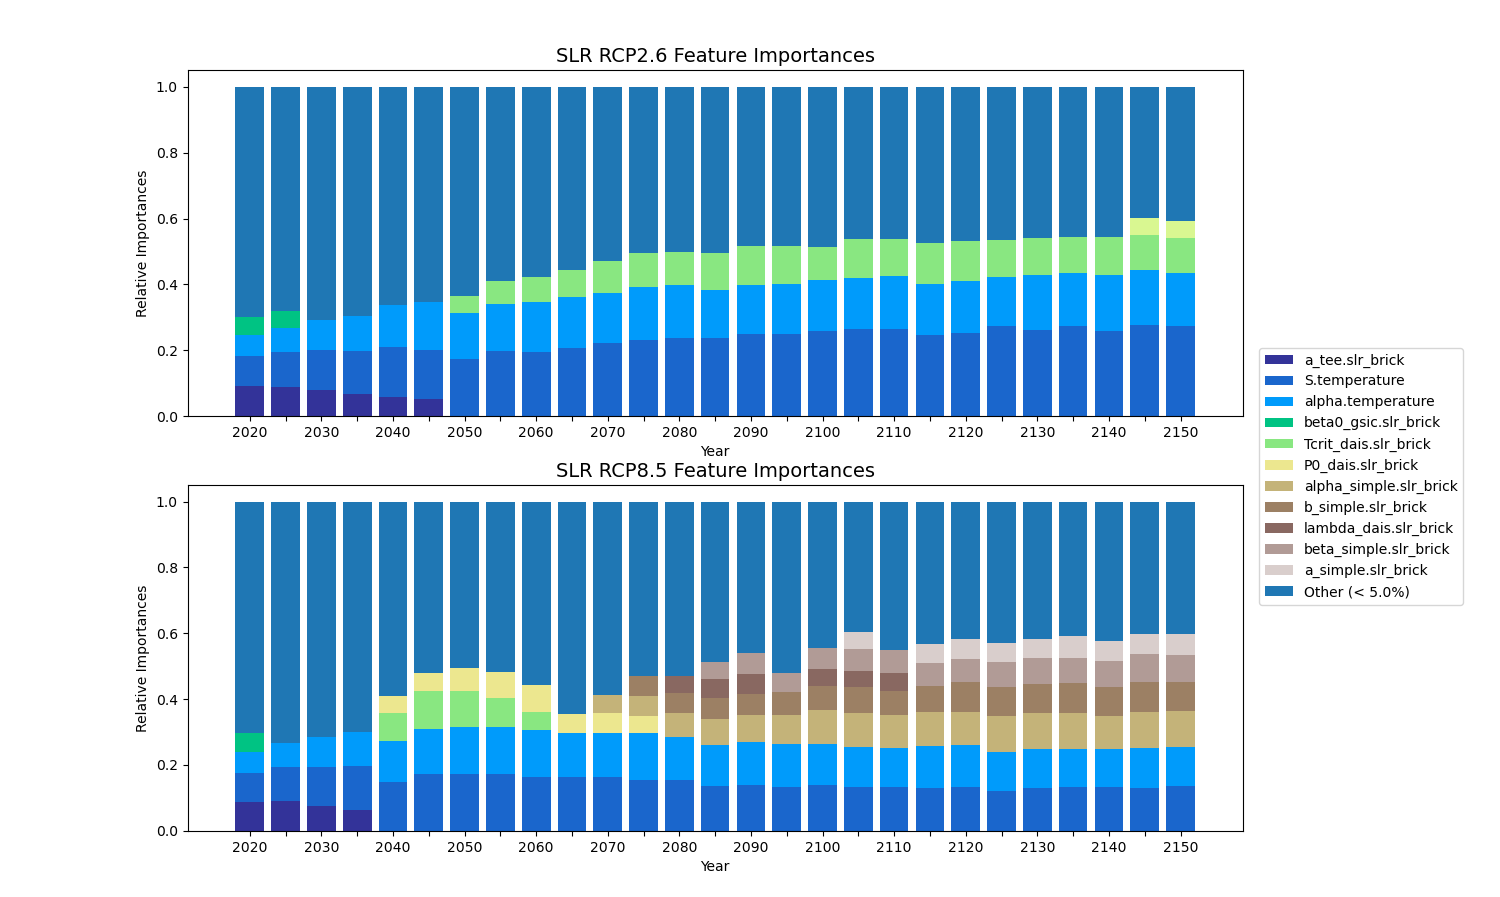
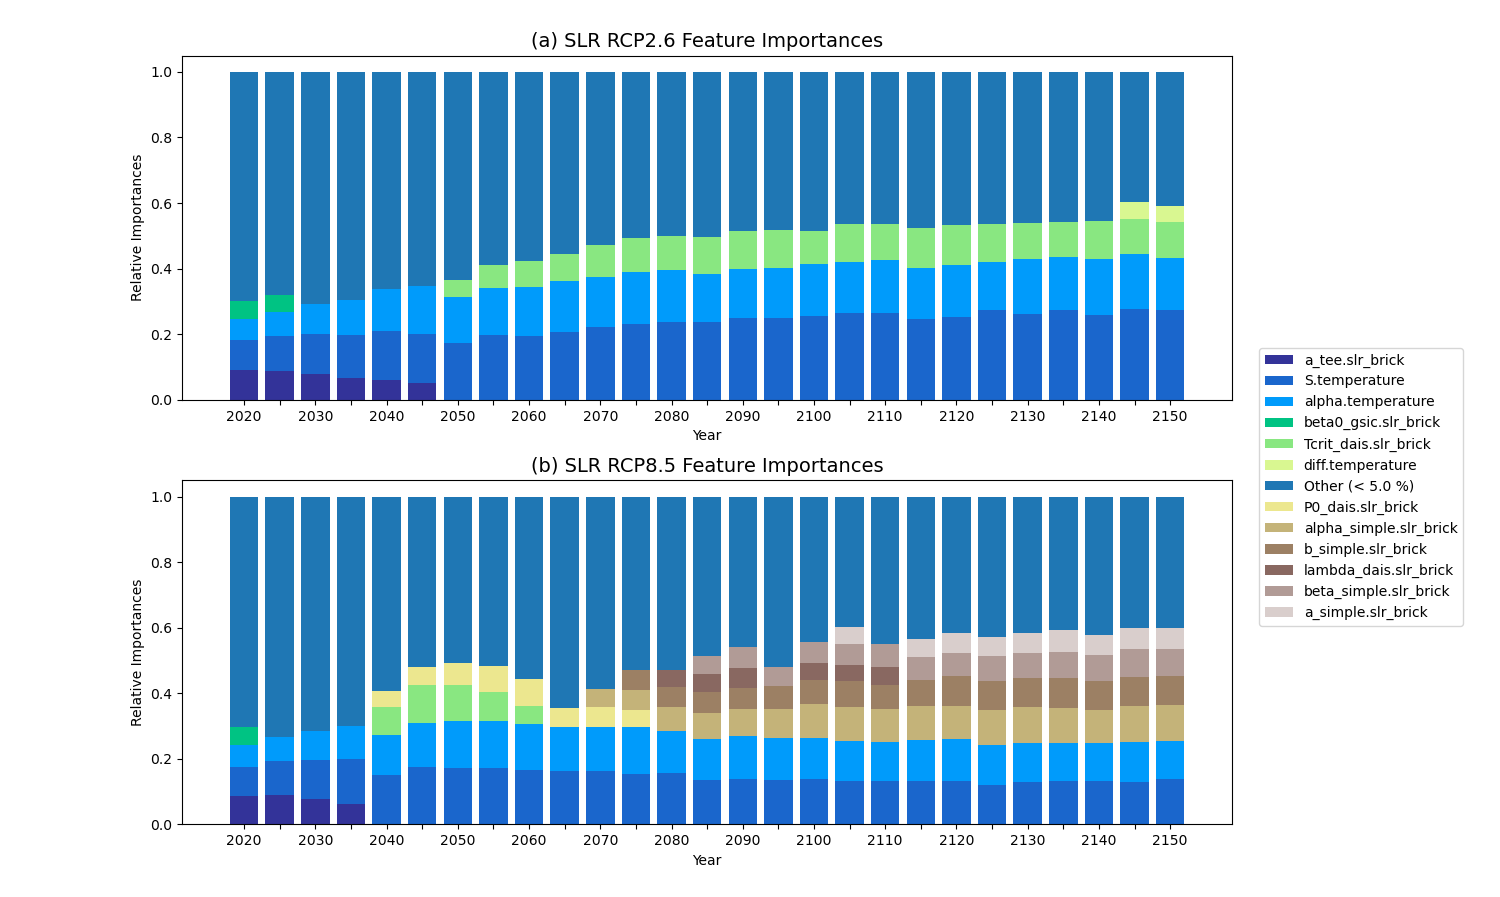
fixed stacked importances legend

diff --git a/python_code/sklearn_slr_classification.py b/python_code/sklearn_slr_classification.py
@@ -369,7 +369,8 @@ def feature_color_dict(features_list):
     return color_dict
 
 
-def slr_stacked_importances_plot(param_sample_df, rcp26_forest_list, rcp85_forest_list, years, importance_threshold):
+def slr_stacked_importances_plot(param_sample_df, rcp26_forest_list, rcp85_forest_list, years,
+                                 importance_threshold = .05):
     """
     Create a stacked histogram of the feature importances over time for each RCP
     :param param_sample_df: dataframe of the input feature values
@@ -435,6 +436,8 @@ def slr_stacked_importances_plot(param_sample_df, rcp26_forest_list, rcp85_fores
 
     # plotting
     fig, axs = plt.subplots(2, 1)
+    handles = []
+    labels = []
     for i in range(len(importances_info_list)):
         importances_info = importances_info_list[i]
         # stacked importances plot
@@ -469,7 +472,10 @@ def slr_stacked_importances_plot(param_sample_df, rcp26_forest_list, rcp85_fores
             title_label = "(b)"
         title = title_label + " SLR " + name[i] + " Feature Importances"
         axs[i].set_title(title, fontsize=14)
-    handles, labels = plt.gca().get_legend_handles_labels()
+        legend_details = axs[i].get_legend_handles_labels()
+        handles += legend_details[0]
+        labels += legend_details[1]
+        print(name[i], labels, sep="\t")
     by_label = dict(zip(labels, handles))
     plt.figlegend(by_label.values(), by_label.keys(), bbox_to_anchor=(.98, .62))
     plt.show()
@@ -753,8 +759,8 @@ if __name__ == '__main__':
     slr_rcp85_5step = pd.read_csv("../data/new_csv/slr_rcp85_5yrstep.csv")
     yrs_rcp26 = slr_rcp26_5step.columns.tolist()
     yrs_rcp85 = slr_rcp85_5step.columns.tolist()
-    make_forest_and_export(df, slr_rcp26_5step, yrs_rcp26, "rcp26", "./forests/", "./forests/forest_accuracy/")
-    make_forest_and_export(df, slr_rcp85_5step, yrs_rcp85, "rcp85", "./forests/", "./forests/forest_accuracy/")
+    #make_forest_and_export(df, slr_rcp26_5step, yrs_rcp26, "rcp26", "./forests/", "./forests/forest_accuracy/")
+    #make_forest_and_export(df, slr_rcp85_5step, yrs_rcp85, "rcp85", "./forests/", "./forests/forest_accuracy/")
 
     # making S.temp split csv's
     list_10_yrs = []
@@ -762,6 +768,10 @@ if __name__ == '__main__':
         list_10_yrs.append(yr)
     rcp26_forest_list_10yrs = load_forests(list_10_yrs, "rcp26")
     rcp85_forest_list_10yrs = load_forests(list_10_yrs, "rcp85")
-    path = "../data/new_csv/SLR_splits/classification_forest/"
-    tree_splits(df, "SLR", "RCP 2.6", rcp26_forest_list_10yrs, list_10_yrs, path)
-    tree_splits(df, "SLR", "RCP 8.5", rcp85_forest_list_10yrs, list_10_yrs, path)
+    #path = "../data/new_csv/SLR_splits/classification_forest/"
+    #tree_splits(df, "SLR", "RCP 2.6", rcp26_forest_list_10yrs, list_10_yrs, path)
+    #tree_splits(df, "SLR", "RCP 8.5", rcp85_forest_list_10yrs, list_10_yrs, path)
+
+    rcp26_forest_list = load_forests(yrs_rcp26, "rcp26")
+    rcp85_forest_list = load_forests(yrs_rcp85, "rcp85")
+    slr_stacked_importances_plot(df, rcp26_forest_list, rcp85_forest_list, yrs_rcp26)
